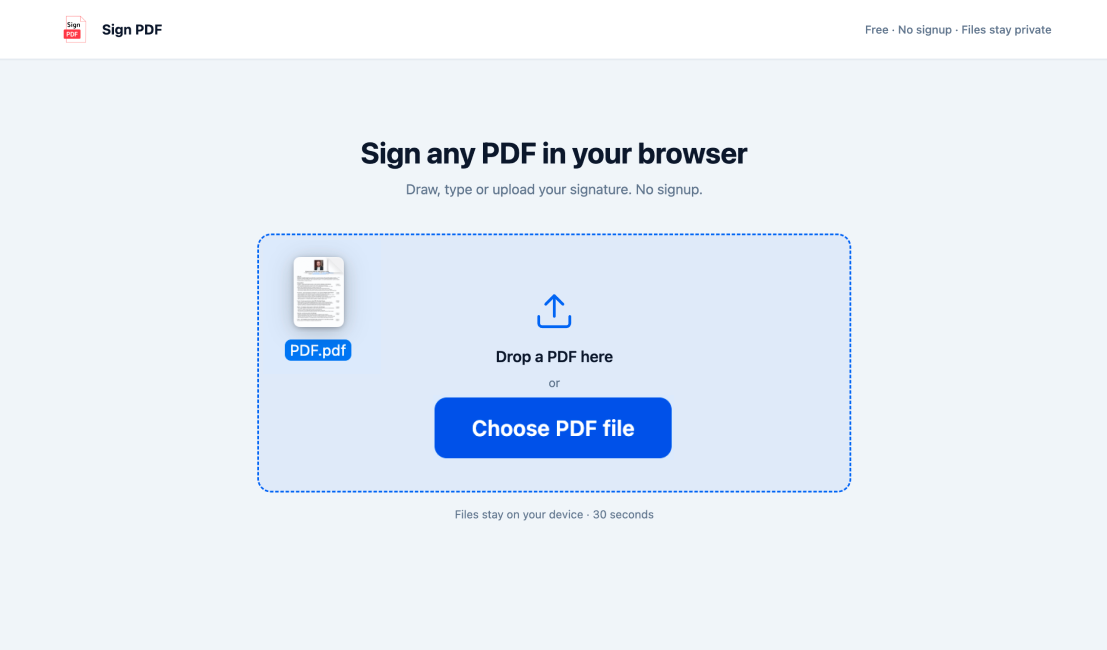
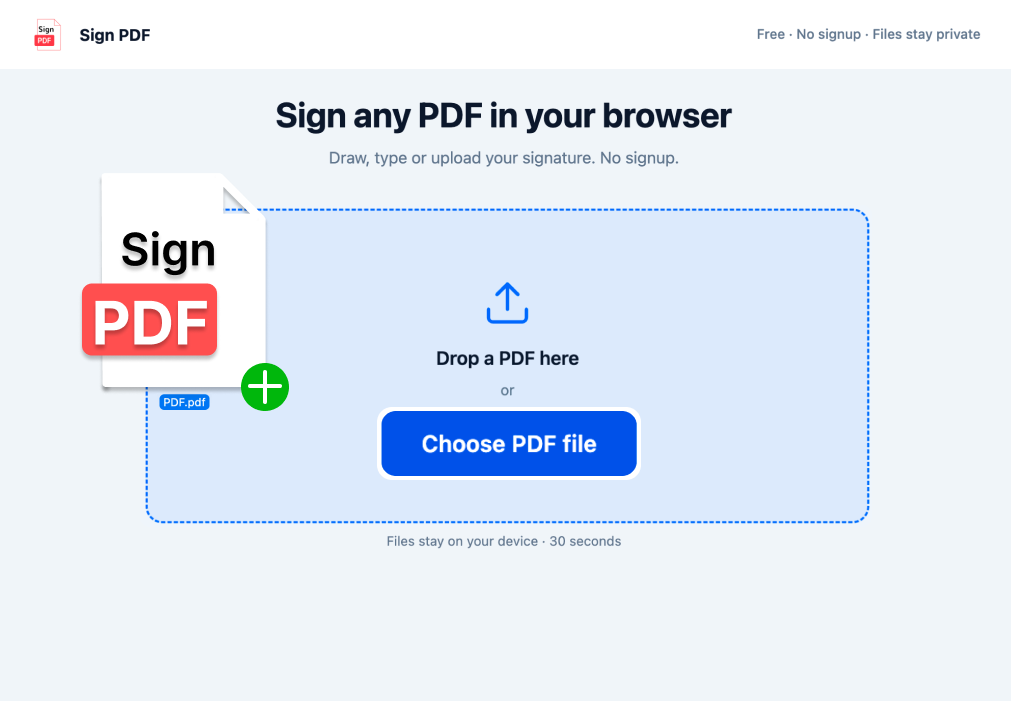
chore(landing): refresh hero + showcase #1/#3 screenshots
- hero-screenshot.png (876×622) — Draw modal with prominent Save & place CTA
- 1-drop-pdf.png (1011×701) — drop-zone page with green + badge on PDF icon
- 3-download.png (882×516) — placed signature + cursor on Download CTA
- 2-add-signature.png left untouched (already shows the same modal as hero)

diff --git a/apps/web/app/sign-pdf-chrome-extension/CLAUDE.md b/apps/web/app/sign-pdf-chrome-extension/CLAUDE.md
@@ -122,17 +122,14 @@ apps/web/
 │   └── globals.css                        # @imports the landing CSS
 ├── next.config.ts                          # /chrome → /sign-pdf-chrome-extension 308
 └── public/
-    ├── logo.png                            # new SignMyPDF logo (1465×1441)
+    ├── logo.png                            # main "Sign My PDF" mark (1465×1441) — used on every other surface
     └── chrome-extension/
-        ├── hero-screenshot.png             # 966×800
-        ├── editor-with-signature.png       # 1200×750 (PLACEHOLDER)
-        ├── context-menu.png                # 1200×750 (PLACEHOLDER)
-        ├── signature-modal.png             # 1200×750 (PLACEHOLDER)
+        ├── hero-screenshot.png             # 876×622 (real — signature modal w/ Save & place CTA)
+        ├── 1-drop-pdf.png                  # 1011×701 (real — drop-PDF page w/ green "+" badge)
+        ├── 2-add-signature.png             # 966×764 (real — Draw signature modal)
+        ├── 3-download.png                  # 882×516 (real — placed signature + Download CTA)
         ├── og-image.png                    # 1200×630 (PLACEHOLDER)
-    ├── 1-drop-pdf.png                  # 1107×650 (real)
-    ├── 2-add-signature.png             # 966×764 (real)
-    ├── 3-download.png                  # 1107×583 (real)
-    └── logo-extension.png              # 1465×1441 (sub-brand mark — landing header only)
+        └── logo-extension.png              # 1465×1441 (sub-brand mark — landing header only)
 ```
 
 ## 7. SEO
@@ -172,3 +169,4 @@ apps/web/
 | v1.4 | Header padding 18 px → total header ≈ 117 px |
 | v1.5 | Replaced weak 3-icon "How it works" + 3-placeholder "See it in action" with a single zig-zag "See how it works" showcase: 3 real screenshots (`1-drop-pdf.png` / `2-add-signature.png` / `3-download.png`) in alternating text-left / shot-right layout. Mobile collapses to single column with screenshot above text. Section order tightened: Features moved above Comparison so the product is shown in action → features → competitor framing, instead of being compared before the user has seen what it does. |
 | v1.6 | (1) Landing-header logo swapped from the full "Sign My PDF" mark (shared `<Logo />`) to a simplified "Sign / PDF" sub-brand (`logo-extension.png` rendered directly via `<Image>`). The main-site logo is unchanged on every other surface — only this landing reads as a tighter, product-specific promise above the H1. (2) New "How to install" section inserted between Comparison and FAQ — 3 numbered cards (Click → Confirm → Pin) with lucide icons in primary blue. Reuses the existing alt-grey background (`.spce-section-alt` = `#fafafa`) for visual consistency with the other secondary sections. Mobile collapses to a single column at < 880 px. |
+| v1.7 | Refreshed 3 screenshots: HERO (`hero-screenshot.png` → 876×622, "Draw / Type / Upload" modal with cursor on a prominent "Save & place" CTA — visually anchors the install promise), showcase block 1 (`1-drop-pdf.png` → 1011×701, drop-zone page with a green "+" badge on the PDF icon to telegraph the "add a file" gesture), showcase block 3 (`3-download.png` → 882×516, editor with placed signature + cursor on the Download CTA). Block 2 (`2-add-signature.png`) intentionally untouched — it already shows the same modal as the HERO and would have duplicated content. |
